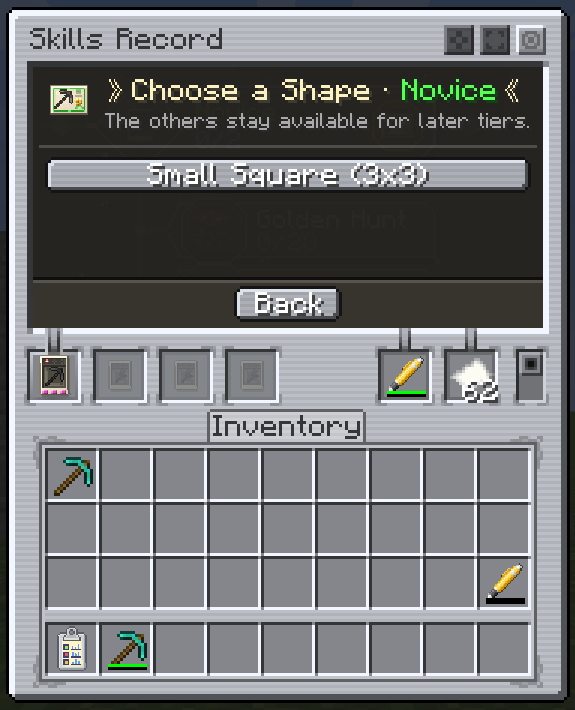
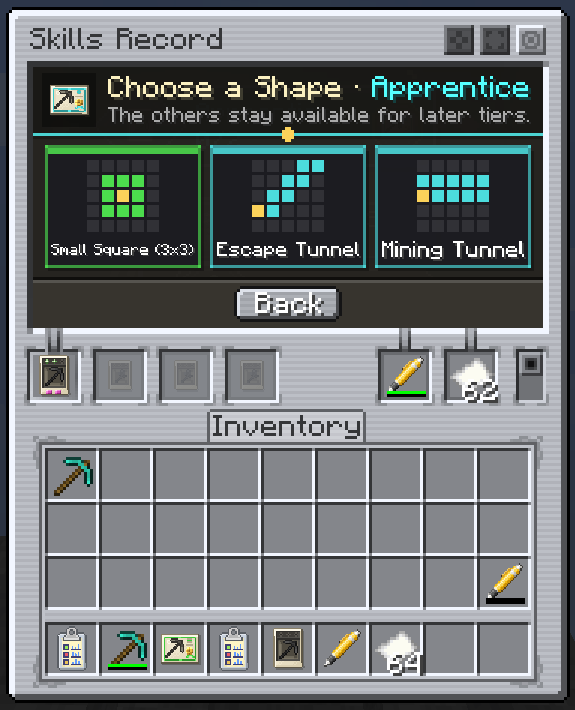
Restyle the top bars and show the redesigned shape choice

diff --git a/docs/stylesheets/extra.css b/docs/stylesheets/extra.css
@@ -328,3 +328,73 @@
     font-size: 1.9rem;
   }
 }
+
+/* ---- Top bars: a stone-brick beam, and the tabs as wooden signs hanging under it ---- */
+.md-header {
+  background:
+    linear-gradient(rgba(18, 14, 10, 0.78), rgba(18, 14, 10, 0.9)),
+    repeating-linear-gradient(0deg, transparent 0 22px, rgba(0, 0, 0, 0.6) 22px 24px),
+    repeating-linear-gradient(90deg, #6f6a64 0 46px, #55514c 46px 48px),
+    #6f6a64;
+}
+
+.md-header__title {
+  font-size: 1rem;
+  font-weight: 700;
+  color: var(--ua-gold);
+  text-shadow: 2px 2px 0 #000;
+}
+
+.md-header__button.md-logo {
+  padding: 0.15rem;
+  margin: 0.2rem 0.4rem 0.2rem 0.2rem;
+  background: #2b2118;
+  border: 2px solid var(--ua-gold);
+  box-shadow: 2px 2px 0 #000;
+}
+
+.md-search__form {
+  background: #2b2118;
+  border: 2px solid #000;
+  box-shadow: inset 2px 2px 0 rgba(0, 0, 0, 0.5);
+}
+
+.md-search__form:hover {
+  background: #3a2c1f;
+}
+
+.md-tabs {
+  background: var(--md-primary-fg-color--dark);
+  border-bottom: none;
+  padding: 0.35rem 0 0.5rem;
+}
+
+.md-tabs__list {
+  gap: 0.5rem;
+}
+
+.md-tabs__item {
+  height: auto;
+  padding: 0;
+}
+
+.md-tabs__link {
+  margin: 0;
+  padding: 0.25rem 0.75rem;
+  opacity: 1;
+  color: #e9d9b4;
+  background: #5a4532;
+  border: 2px solid #000;
+  box-shadow: 0 3px 0 #000, inset 0 2px 0 rgba(255, 255, 255, 0.12);
+  transition: transform 80ms steps(2);
+}
+
+.md-tabs__link:hover {
+  color: #fff;
+  transform: translateY(2px);
+}
+
+.md-tabs__item--active .md-tabs__link {
+  background: var(--ua-gold);
+  color: #241a12;
+}

diff --git a/docs/wiki/walkthrough.md b/docs/wiki/walkthrough.md
@@ -64,9 +64,9 @@ Open the record again. The card is now **Novice**, it has a new set of challenge
 
 ![The card at Novice, with two new challenges and the certificate badge on the tier](../assets/wiki/record-novice.png){ .ua-shot .ua-shot--gui loading=lazy }
 
-Click the badge and pick a shape. Shapes you pass over stay available at later tiers.
+Click the badge and pick a shape. Each tile shows the shape, its name, and the color of the tier it comes from. Shapes you pass over stay available at later tiers, which is why an Apprentice pick like the one below can still offer the Novice shape.
 
-![Choosing the Novice shape: Small Square (3x3)](../assets/wiki/choose-shape.png){ .ua-shot .ua-shot--gui loading=lazy }
+![Choosing a shape at Apprentice: Small Square, Escape Tunnel or Mining Tunnel](../assets/wiki/choose-shape.png){ .ua-shot .ua-shot--gui loading=lazy }
 
 The certificate lands in your inventory. **Use it** to learn the shape for that tool, for good.
 
